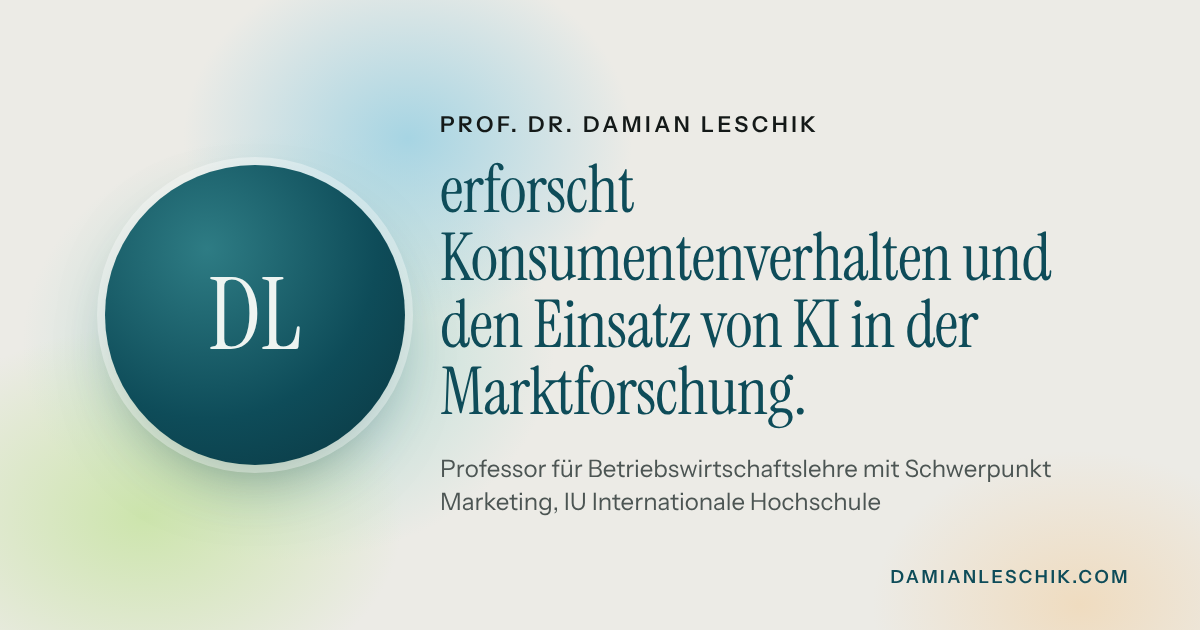
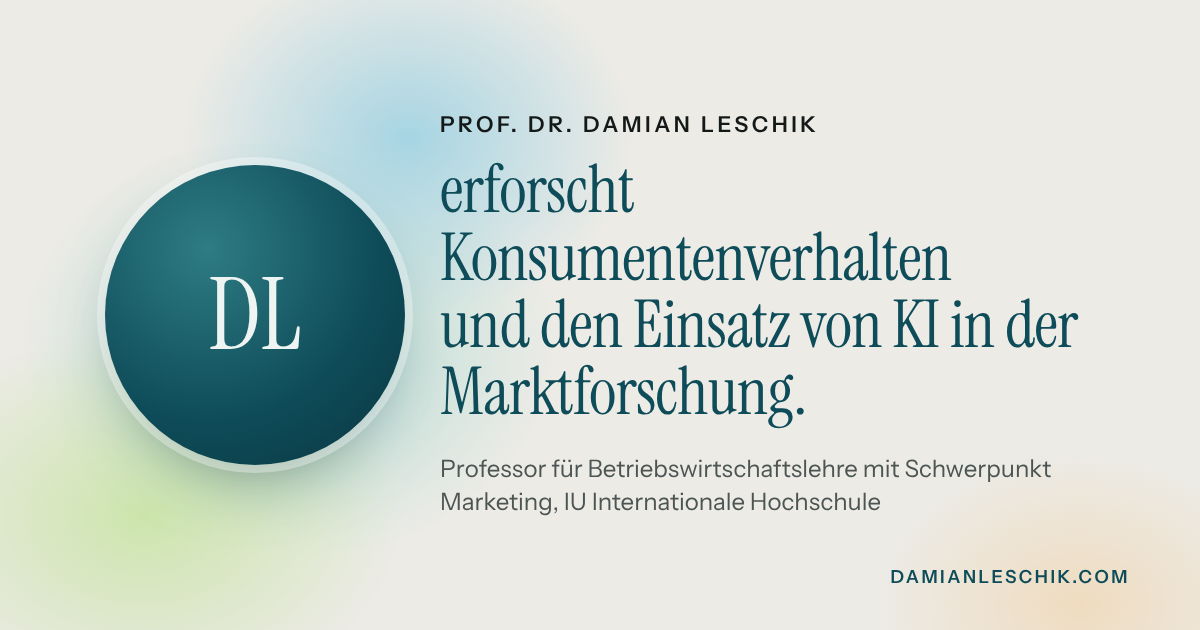
Überschrift auf zwei Zeilen (DE/EN)
Zeilenumbruch nach „Konsumentenverhalten“ / „consumer behaviour“, gesteuert
über \n im Satz in profil.*.md. Schriftgröße so angepasst, dass der Satz auf
Tablet und Desktop zweizeilig bleibt; auf dem Handy bricht jede Zeile
zusätzlich um. llms.txt und Vorschaubilder angepasst.

Claude-Session: https://claude.ai/code/session_01RiCZooBJyG7BzJgMStaVG1

Changed region(s): [[0.37, 0.4524, 0.8942, 0.573], [0.8017, 0.3619, 0.8942, 0.4524]]

diff --git a/static/assets/css/site.css b/static/assets/css/site.css
@@ -190,10 +190,12 @@ em { font-style: italic; }
   letter-spacing: .16em; text-transform: uppercase; color: var(--ink);
 }
 .hero-claim {
-  display: block; max-width: 17ch;
-  font-family: var(--serif); font-size: clamp(2.5rem, 5.8vw, 4.7rem); line-height: 1.03;
-  letter-spacing: -0.012em; color: var(--teal); text-wrap: balance;
+  display: block; max-width: 100%;
+  font-family: var(--serif); font-size: clamp(2.3rem, 4.6vw, 3.9rem); line-height: 1.06;
+  letter-spacing: -0.012em; color: var(--teal);
 }
+/* Jede Zeile des Satzes (Trennung mit \n in profil.*.md) als eigener Block */
+.hero-claim-line { display: block; text-wrap: balance; }
 .hero-role { margin: 1.5rem auto 0; max-width: 40rem; color: var(--ink-soft); font-size: 1.05rem; line-height: 1.55; text-wrap: balance; }
 .hero-line {
   display: block; width: 1px; height: clamp(3rem, 7vw, 5rem);

diff --git a/templates/home.html b/templates/home.html
@@ -5,7 +5,7 @@
   <div class="hero-glow" aria-hidden="true"></div>
   <div class="wrap hero-inner">
     {{ portrait_img('portrait-hero') }}
-    <h1 id="hero-title"><span class="hero-name">{{ site.honorific }} {{ site.name }}</span> <span class="hero-claim">{{ claim }}</span></h1>
+    <h1 id="hero-title"><span class="hero-name">{{ site.honorific }} {{ site.name }}</span> <span class="hero-claim">{% for line in claim.split("\n") %}<span class="hero-claim-line">{{ line }}</span>{% if not loop.last %} {% endif %}{% endfor %}</span></h1>
     <p class="hero-role">{{ job_title }}<br>{{ affiliation_name }} · {{ campus }}</p>
     <span class="hero-line" aria-hidden="true"></span>
   </div>

diff --git a/tools/og_image.py b/tools/og_image.py
@@ -12,6 +12,7 @@ Benötigt Playwright mit Chromium:  pip install playwright && playwright install
 import argparse
 import asyncio
 import base64
+import html
 import sys
 import tempfile
 from pathlib import Path
@@ -33,7 +34,7 @@ IMG = ROOT / "static/assets/img"
 
 def page_html(lang: str, site: dict) -> str:
     meta, _ = read_md(ROOT / "content/profil.{}.md".format(lang))
-    claim = meta.get("claim", "")
+    claim = "<br>".join(html.escape(line) for line in meta.get("claim", "").split("\n"))
     role = "{}, {}".format(site["job_title"][lang], site["affiliation"]["name"] if lang == "de" else site["affiliation"]["name_en"])
     portrait = IMG / "portrait.jpg"
     if portrait.exists():

diff --git a/build.py b/build.py
@@ -767,7 +767,7 @@ class Builder:
             loc(s["affiliation"]["campus"], "en"),
             "; ".join(lower_first(r["en"]["title"]) for r in self.research))
         summary_de = "{} {} Er ist {} an der {} ({}).".format(
-            s["name"], de_meta.get("claim", ""), loc(s["job_title"], "de"),
+            s["name"], de_meta.get("claim", "").replace("\n", " "), loc(s["job_title"], "de"),
             s["affiliation"].get("name_dative", s["affiliation"]["name"]), loc(s["affiliation"]["campus"], "de"))
         head = [
             "# {}".format(s["name"]), "",

diff --git a/content/profil.de.md b/content/profil.de.md
@@ -4,7 +4,7 @@ title: "Damian Leschik – Konsumentenverhalten, Marktforschung & KI"
 # Beschreibung für Google & Co. (ca. 120–160 Zeichen)
 description: "Damian Leschik, Professor für Betriebswirtschaftslehre mit Schwerpunkt Marketing an der IU, forscht zu Konsumentenverhalten und KI in der Marktforschung."
 # Großer Satz oben auf der Startseite (beginnt mit deinem Namen)
-claim: "erforscht Konsumentenverhalten und den Einsatz von KI in der Marktforschung."
+claim: "erforscht Konsumentenverhalten\nund den Einsatz von KI in der Marktforschung."
 ---
 Damian Leschik ist Professor für Betriebswirtschaftslehre mit Schwerpunkt Marketing an der IU Internationalen Hochschule und lehrt an den Campus Aachen und Köln. Er untersucht, was künstliche Intelligenz für die Marktforschung leisten kann und wo ihre Grenzen liegen. Ein Schwerpunkt ist **Silicon Sampling**: die Frage, ob KI-generierte Befragte echte Menschen in Studien ersetzen oder sinnvoll ergänzen können.
 

diff --git a/content/profil.en.md b/content/profil.en.md
@@ -1,7 +1,7 @@
 ---
 title: "Damian Leschik – Consumer Behaviour, Market Research & AI"
 description: "Damian Leschik, Professor of Business Administration with a focus on Marketing at IU, researches consumer behaviour and AI in market research."
-claim: "researches consumer behaviour and the use of AI in market research."
+claim: "researches consumer behaviour\nand the use of AI in market research."
 ---
 Damian Leschik is Professor of Business Administration with a focus on Marketing at IU International University of Applied Sciences, teaching at the Aachen and Cologne campuses in Germany. His research asks what artificial intelligence can contribute to market research and where its limits lie. A particular focus is **silicon sampling**: whether AI-generated respondents can replace, or usefully complement, real people in surveys and interviews.
 
